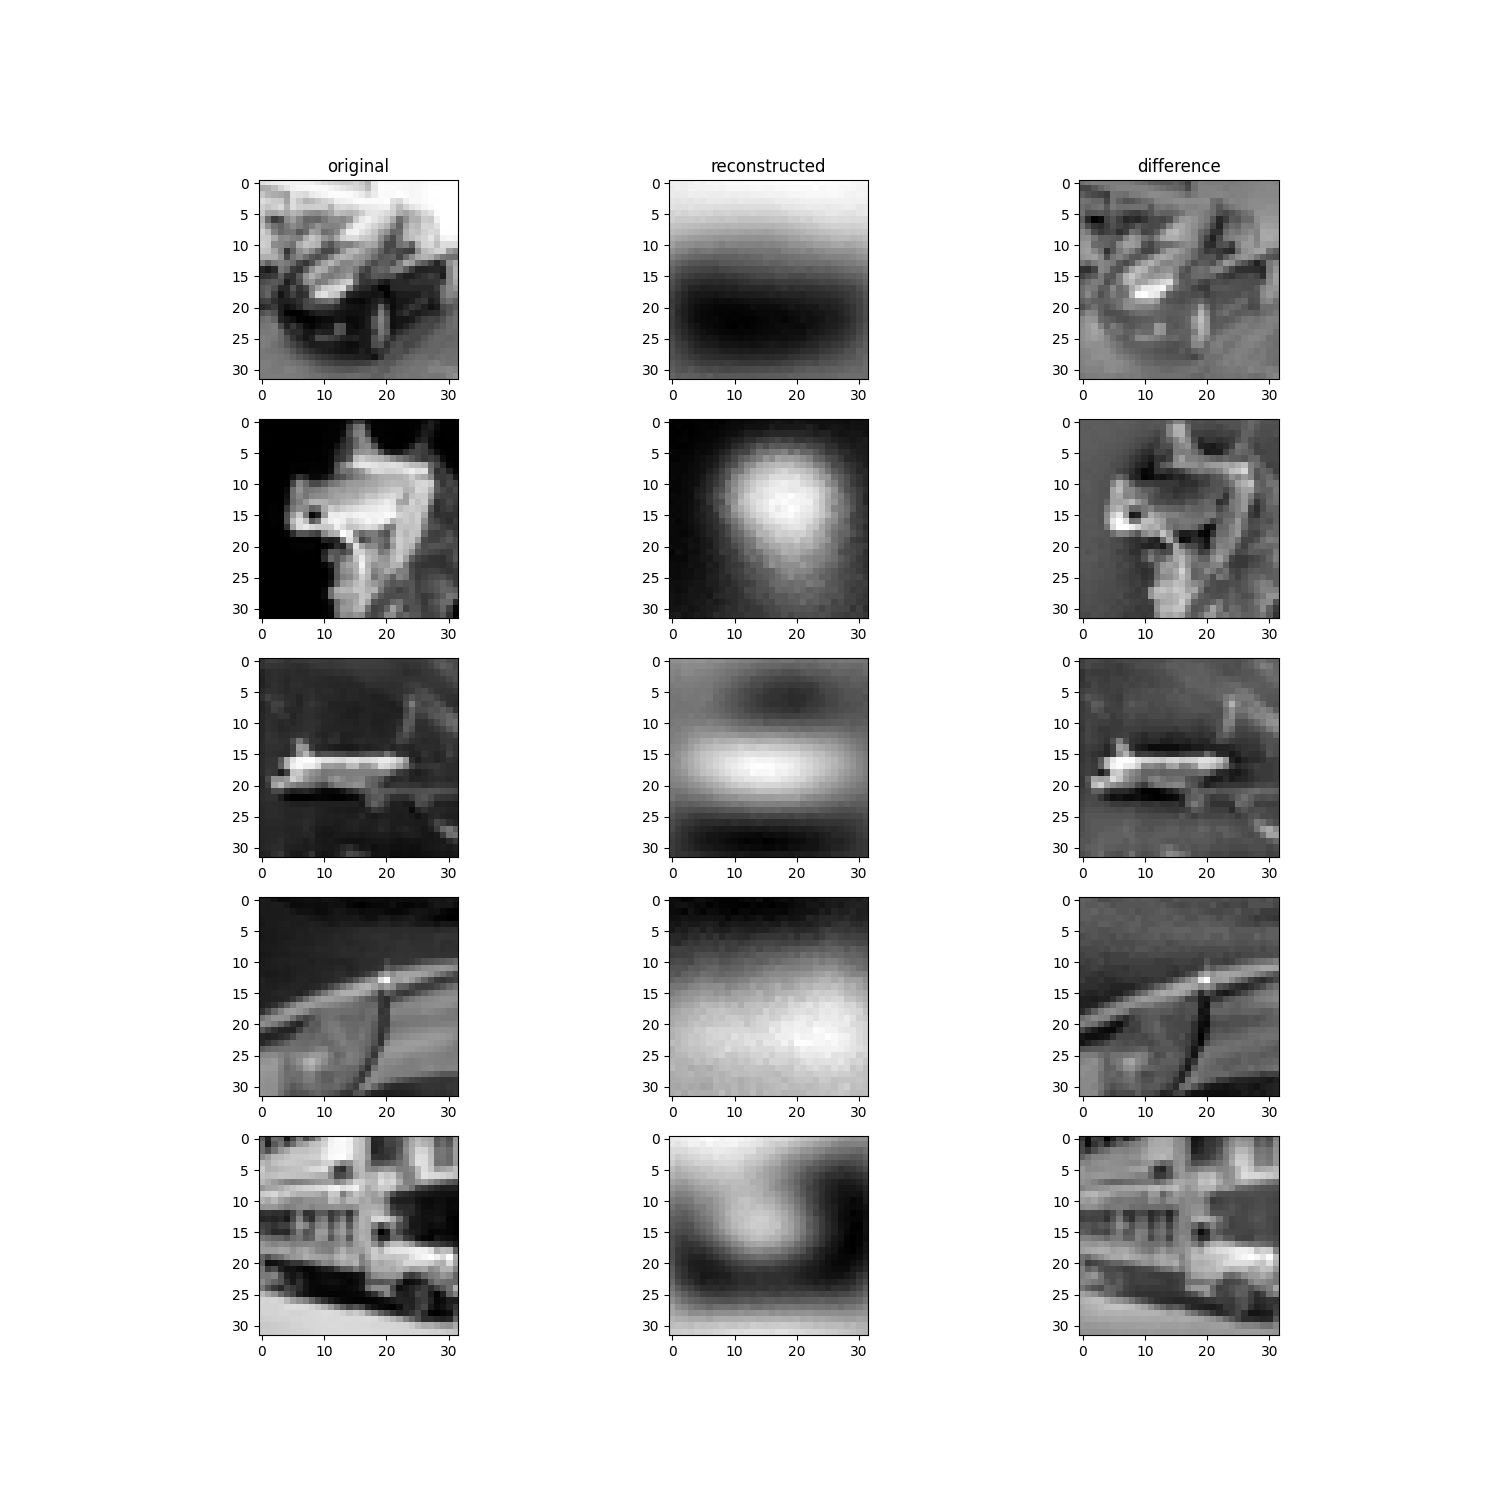
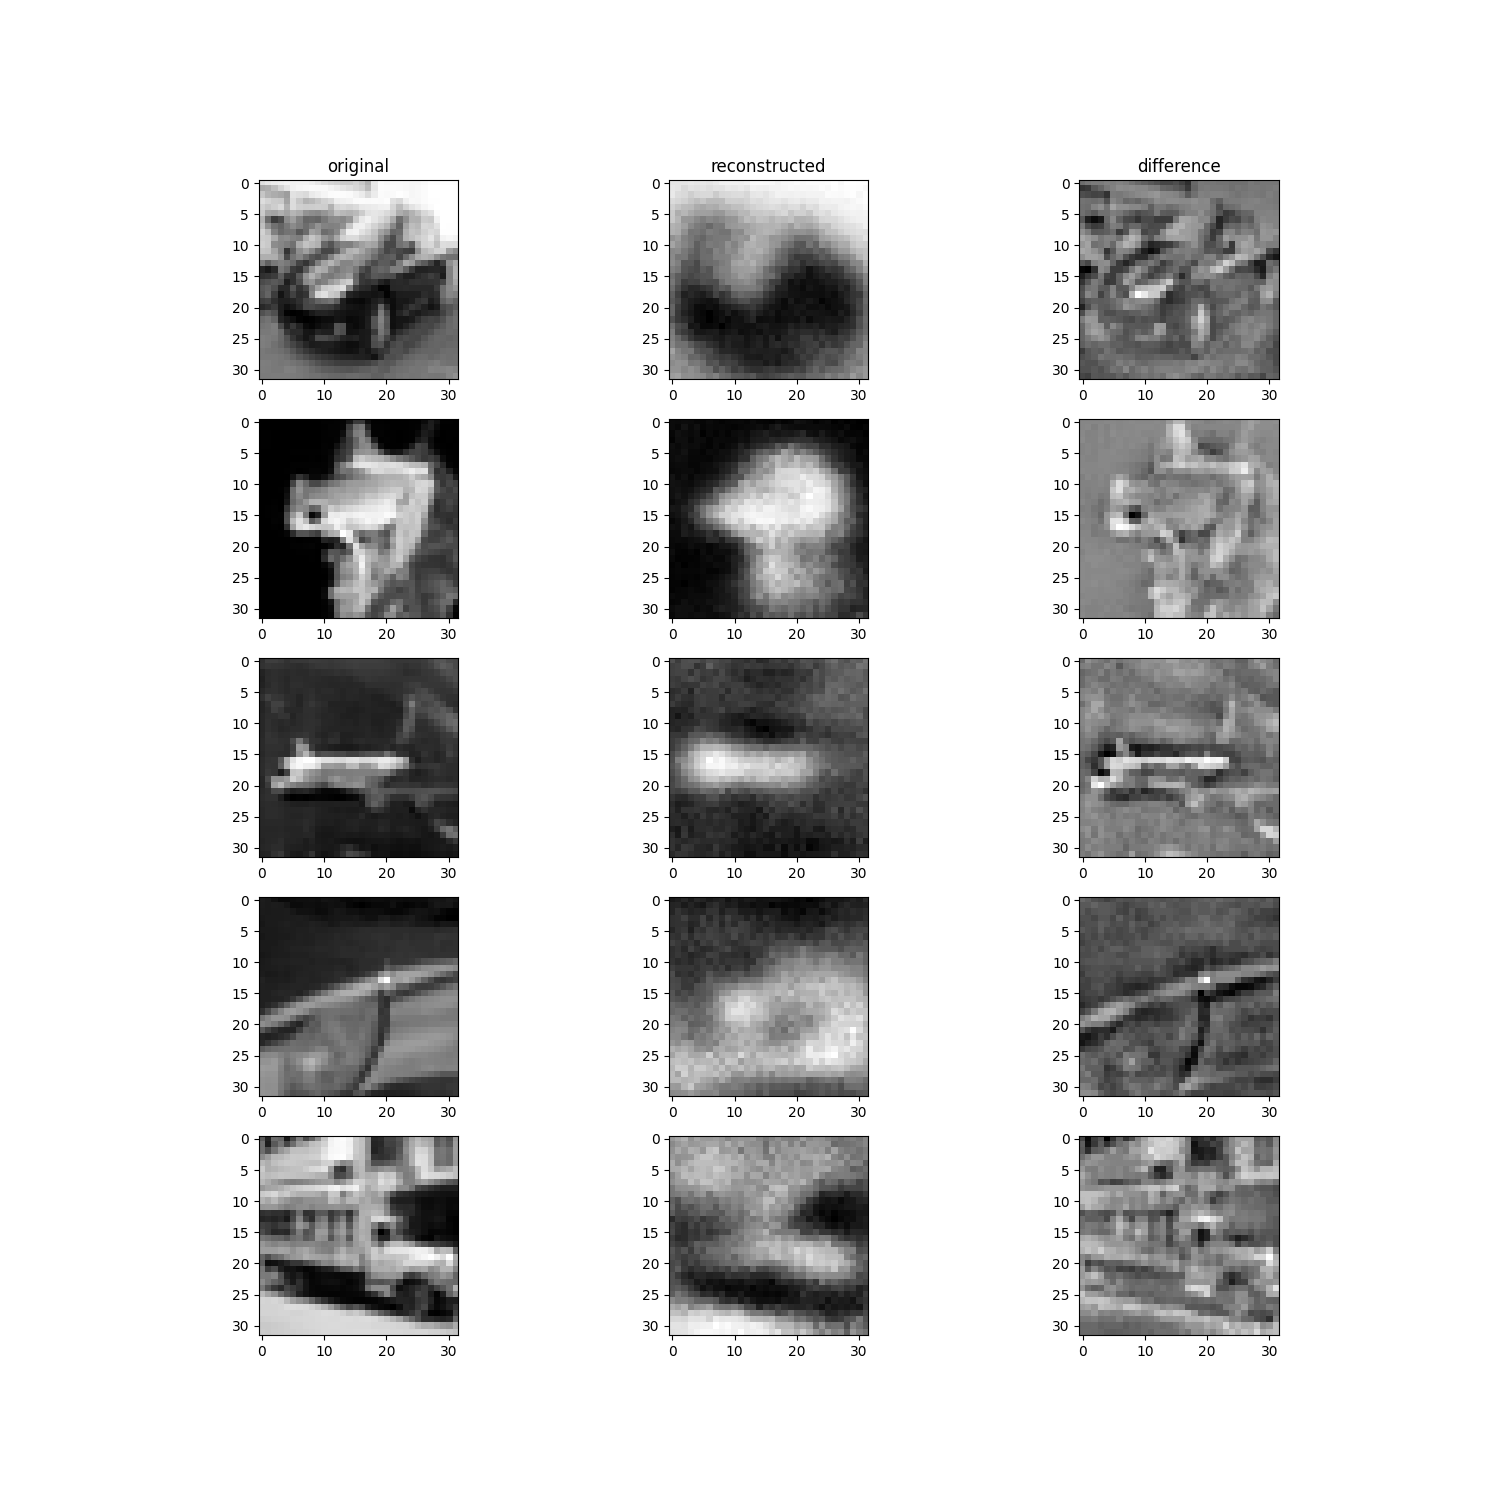
simplified model and got to loss of 0.01 (yea well okay)

diff --git a/simple_autoencoder/models.py b/simple_autoencoder/models.py
@@ -15,7 +15,7 @@ class Encoder(nn.Module):
   @nn.compact
   def __call__(self, x, dropout_rng, training: bool = True):
     # reduces the dimensionality of the input by a factor 1.5, 3, 6, 12 (?)
-    layers_div = [2, 3, 6, 10]
+    layers_div = [3, 6]
     for i, div in enumerate(layers_div):
         x = nn.Dense(self.fmri_dim // div, name=f'fc{i}')(x)
         x = nn.BatchNorm(
@@ -24,9 +24,9 @@ class Encoder(nn.Module):
                     epsilon=1e-5
                 )(x)
         x = nn.gelu(x)
-        x = nn.Dropout(
-                    rate=self.dropout_rate,
-                )(x, deterministic=not training, rng=dropout_rng)
+        # x = nn.Dropout(
+        #             rate=self.dropout_rate,
+        #         )(x, deterministic=not training, rng=dropout_rng)
 
     # final layer
     x = nn.Dense(self.latent_dim, name=f'fc{len(layers_div)}')(x)
@@ -41,7 +41,7 @@ class Decoder(nn.Module):
   @nn.compact
   def __call__(self, z, dropout_rng, training: bool):
     # increases the dimensionality of the input by a factor 1.5, 3, 6, 12 (?)
-    layers_div = [10, 6, 3, 2]
+    layers_div = [6, 3]
     for i, div in enumerate(layers_div):
         z = nn.Dense(self.fmri_dim // div, name=f'fc{i}')(z)
         z = nn.BatchNorm(
@@ -50,9 +50,9 @@ class Decoder(nn.Module):
                     epsilon=1e-5
                 )(z)
         z = nn.gelu(z)
-        z = nn.Dropout(
-                    rate=self.dropout_rate,
-                )(z, deterministic=not training, rng=dropout_rng)
+        # z = nn.Dropout(
+        #             rate=self.dropout_rate,
+        #         )(z, deterministic=not training, rng=dropout_rng)
 
     # final layer
     z = nn.Dense(self.fmri_dim, name=f'fc{len(layers_div)}')(z)
